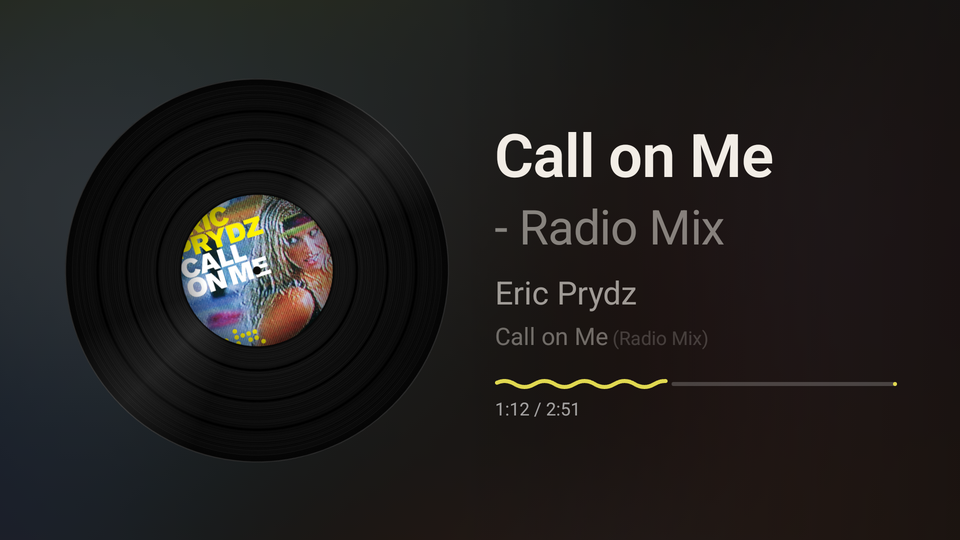
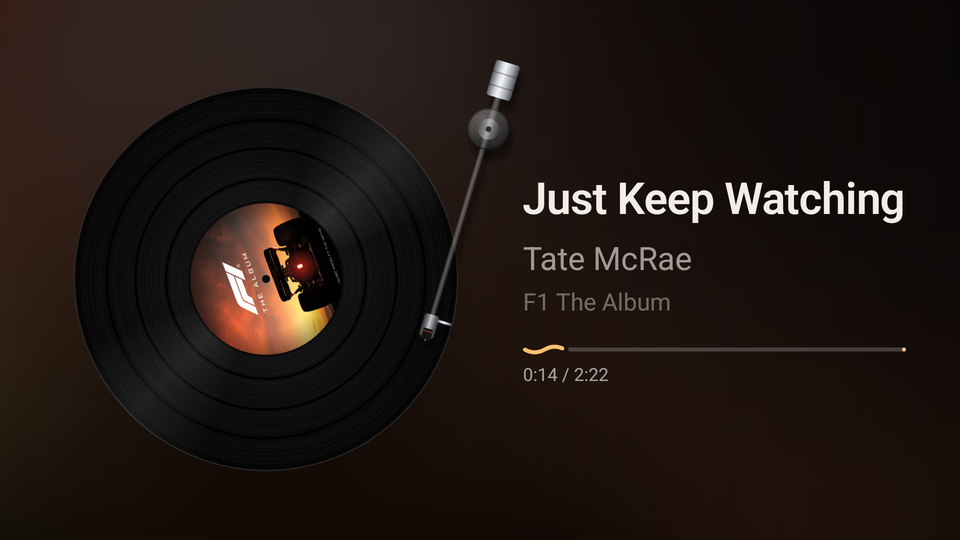
README: feature list, tonearm and idle clock screenshots

diff --git a/README.md b/README.md
@@ -4,21 +4,35 @@ An Android TV screensaver (DreamService) that shows the currently playing track'
 
 It reads the active media session (built for the Spotify TV app, works with any player that publishes a MediaSession). Sideload only.
 
+- **The record:** the album art is the label, spinning at half of 33⅓ RPM, with grooves, a static sheen and a blurred backdrop of the cover. Pausing eases it to a stop.
+- **Tonearm:** the needle moves from the outer groove to the label as the track plays, swings to rest when paused, and lifts back to the start on a new track.
+- **Track info:** title, artist and album, with suffixes like "- Remastered 2009" or "(feat. …)" dimmed, long lines scrolling slowly, and a wavy progress bar with elapsed and total time.
+- **Idle clock:** with nothing playing, or after 45 s paused, the label turns into a clock face. The text column shows the last track, the time and the date. It redraws once a minute.
+- **Burn-in protection:** the whole picture drifts by a few pixels over several minutes.
+
 <table>
   <tr>
-    <td width="50%"><img src="docs/now-playing.png" alt="Iluze by Vypsaná Fixa playing: a black record with the cover as its label, title, artist and album to the right, a pale wavy progress bar at 1:25 of 3:26, over a warm blurred backdrop of the cover"></td>
-    <td width="50%"><img src="docs/now-playing-2.png" alt="Call on Me by Eric Prydz playing: the title on one line and its dimmed - Radio Mix suffix on the next, a yellow wavy progress bar at 1:12 of 2:51"></td>
+    <td width="50%"><img src="docs/now-playing.png" alt="Devil Town by Cavetown at 2:42 of 2:59: the tonearm's needle is near the label, a red wavy progress bar is almost full"></td>
+    <td width="50%"><img src="docs/now-playing-2.png" alt="Just Keep Watching by Tate McRae at 0:14 of 2:22: the needle is on the outer groove, over a warm blurred backdrop of the F1 album cover"></td>
   </tr>
   <tr>
-    <td align="center">Now playing</td>
-    <td align="center">Suffixes like “- Radio Mix” are dimmed; colors follow each cover</td>
+    <td align="center">Near the end of a track, the needle is by the label</td>
+    <td align="center">Near the start, it's on the outer groove</td>
   </tr>
   <tr>
-    <td width="50%"><img src="docs/long-title.png" alt="A long title: Under Pressure on the first line, the dimmed feat. and remaster suffix on the second, the artist line scrolling, with the progress bar below"></td>
+    <td width="50%"><img src="docs/paused.png" alt="Paused at 0:56 of 2:22: the tonearm rests beside the record and the progress bar is a flat line"></td>
+    <td width="50%"><img src="docs/idle-clock.png" alt="Idle clock: the label is a cream clock face with metal hands, the arm is at rest, and the text column shows the last track Iluze by Vypsaná Fixa dimmed, the time 22:45 and the date"></td>
+  </tr>
+  <tr>
+    <td align="center">Paused: the arm swings to rest</td>
+    <td align="center">Idle: a clock, the last track, time and date</td>
+  </tr>
+  <tr>
+    <td width="50%"><img src="docs/long-title.png" alt="A long title: Under Pressure on the first line, the dimmed feat. and remaster suffix on the second, the artist and album lines scrolling, with the progress bar below"></td>
     <td width="50%"><img src="docs/settings.png" alt="Settings screen with the Use as screensaver toggle on, a Start screensaver now item, and both permissions shown as granted"></td>
   </tr>
   <tr>
-    <td align="center">Long titles: dimmed suffix, scrolling artist (debug text preview)</td>
+    <td align="center">Long titles: dimmed suffix, scrolling lines (debug text preview)</td>
     <td align="center">Settings</td>
   </tr>
 </table>
@@ -100,6 +114,23 @@ Every metadata change logs the keys the player sends, with bitmap sizes and art 
 ## How it works
 
 - `NowPlayingListener`: an empty `NotificationListenerService`. Being an enabled listener is what allows `MediaSessionManager.getActiveSessions()`.
-- `NowPlayingRepository`: listens for session changes and controller callbacks, with no polling. It prefers a `PLAYING` session, otherwise the session with metadata that changed most recently. Sessions in `ERROR` state, like the dead Bluetooth ones, are ignored. For art it uses the metadata bitmaps first, then loads the art URIs with Coil. If the listener permission is missing, it waits for it to be granted.
+- `NowPlayingRepository`: listens for session changes and controller callbacks, with no polling. It prefers a `PLAYING` session, otherwise the session with metadata that changed most recently. Sessions in `ERROR` state, like the dead Bluetooth ones, are ignored. For art it uses the metadata bitmaps first, then loads the art URIs with Coil. It also reports duration and the playback position, which `estimatePosition()` advances between updates. If the listener permission is missing, it waits for it to be granted.
 - `VinylDream`: a `DreamService` that acts as its own Lifecycle, SavedStateRegistry and ViewModelStore owner, so Compose can run inside it.
 - `MainActivity`: the same vinyl view, plus Settings (`SystemSetup` handles the `Settings.Secure` writes). It doesn't keep the screen on, so the system screensaver takes over when the TV is idle.
+- `VinylUi`, `VinylBitmaps`: the record, its sheen and the blurred backdrop are drawn once per track into bitmaps, off the main thread. Each frame only rotates or blits them, which keeps the TV's GPU at about 11 ms per frame.
+- `Tonearm`, `TonearmGeometry`: the arm is one cached bitmap rotated around its pivot. The angle for each groove radius comes from the law of cosines, with unit tests.
+- `SongProgress`: Material 3 Expressive's wavy progress indicator. The wave flattens when paused.
+- `IdleClock`: idle detection, the clock face and hands, and the idle text column.
+- `TrackSuffix`: splits "- Remastered 2009", "(feat. …)" and similar off titles, with unit tests.
+
+Debug builds accept `debug_title`, `debug_artist` and `debug_album` intent extras, to preview long text over the real art:
+
+```bash
+adb shell "am start -n com.smoliicek.vinyl/.MainActivity --es debug_title 'Under Pressure (feat. David Bowie) - Remastered 2011'"
+```
+
+## Tests
+
+```bash
+./gradlew testDebugUnitTest
+```
